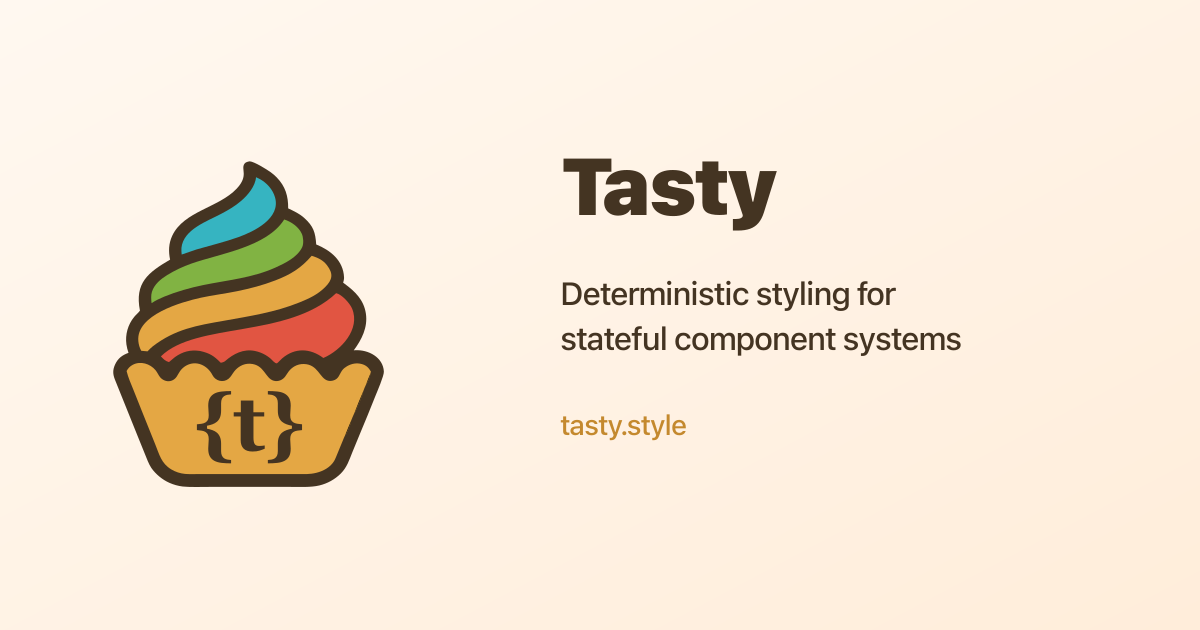
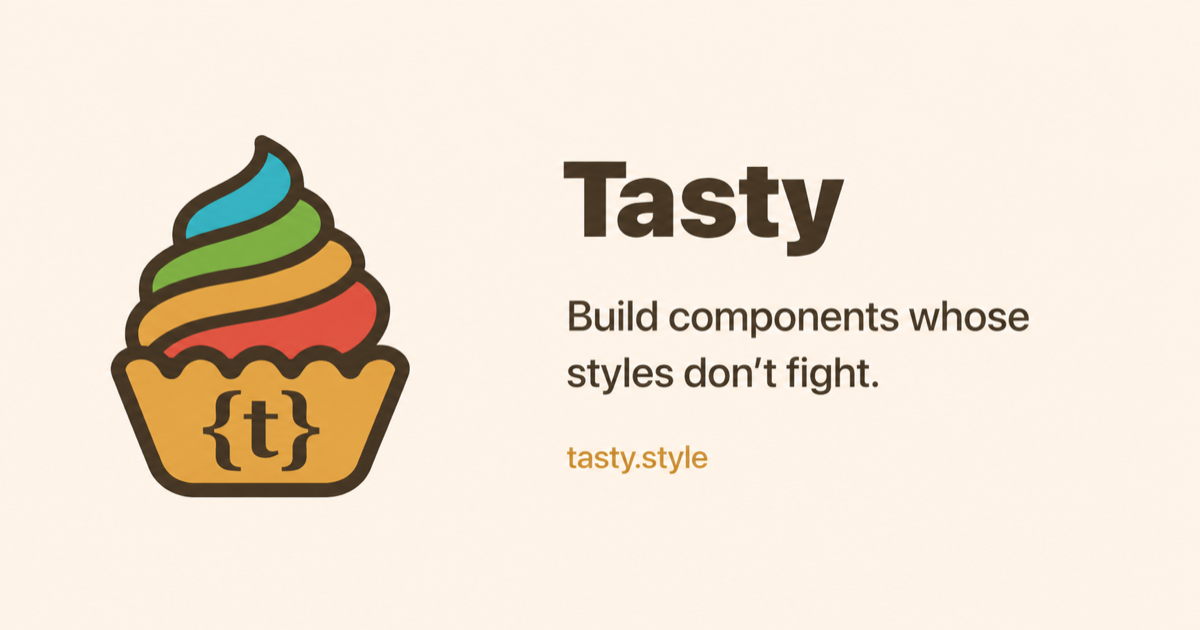
feat: sharpen homepage positioning

diff --git a/app/components/Features.tsx b/app/components/Features.tsx
@@ -22,44 +22,44 @@ interface FeatureItem {
 const FEATURES: FeatureItem[] = [
   {
     icon: <IconTargetArrow size={24} stroke={1.5} />,
-    title: 'Deterministic State Resolution',
+    title: 'States that don’t fight',
     description:
-      'State maps compile into mutually exclusive selectors, so one branch wins by construction instead of through source order or specificity.',
+      'Each property’s state map compiles into mutually exclusive selectors, so one branch wins by construction—not by source order or specificity.',
     tint: 'lime',
   },
   {
     icon: <IconSparkles size={24} stroke={1.5} />,
-    title: 'Predictable to Extend',
+    title: 'Safe to extend',
     description:
-      'Add variants, overrides, and new states without reopening selector logic by hand. The component model stays maintainable as systems grow.',
+      'Add variants, overrides, and new states without re-deriving selector logic. Components stay predictable as requirements grow.',
     tint: 'coral',
   },
   {
     icon: <IconDevices size={24} stroke={1.5} />,
-    title: 'Extensible Style Semantics',
+    title: 'Your design system’s language',
     description:
-      'Define custom props, tokens, units, aliases, and parser rules for your design system, then compile them down to standard CSS output.',
+      'Define typed style props, tokens, units, aliases, and parser rules for your system, then compile them to standard CSS.',
     tint: 'amber',
   },
   {
     icon: <IconPalette size={24} stroke={1.5} />,
-    title: 'Recommended Methodology',
+    title: 'Built for component systems',
     description:
-      'The docs define a clear component model for design systems: root + sub-elements, governed public APIs, typed style props where they help, and wrapper-based extension.',
+      'Model roots and sub-elements together, expose governed public APIs, and compose styles as data instead of scattered overrides.',
     tint: 'teal',
   },
   {
     icon: <IconComponents size={24} stroke={1.5} />,
-    title: 'Broad State Coverage',
+    title: 'One model for every state',
     description:
-      'Pseudo-classes, attributes, media queries, container queries, root states, parent states, `:has()`, and `@supports` all fit into the same state-map model.',
+      'Pseudo-classes, variants, root and parent states, media and container queries, `:has()`, and `@supports` all use state maps.',
     tint: 'violet',
   },
   {
     icon: <IconBolt size={24} stroke={1.5} />,
-    title: 'Flexible Rendering Paths',
+    title: 'Runtime, server, or build time',
     description:
-      'Use the same styling model in runtime React, add SSR when the app renders on the server, or choose build-time extraction when zero-runtime delivery is the goal.',
+      'Keep the same styling model in runtime React, React Server Components and SSR, or zero-runtime build-time extraction.',
     tint: 'rose',
   },
 ];
@@ -69,8 +69,8 @@ export default function Features() {
     <Section id="features">
       <Section.Title>Why Tasty</Section.Title>
       <Section.Subtitle>
-        Built for reusable, stateful components that need predictable styling as
-        they evolve
+        Built for long-lived component libraries where states, variants, themes,
+        and overrides keep growing
       </Section.Subtitle>
       <Section.Content>
         <Grid

diff --git a/app/components/Hero.tsx b/app/components/Hero.tsx
@@ -1,5 +1,5 @@
 import { tasty, OUTER_STYLES } from '@tenphi/tasty';
-import { IconArrowRight, IconBrandTelegram } from '@tabler/icons-react';
+import { IconArrowRight } from '@tabler/icons-react';
 import Space from '@/app/ui/Space';
 import Button from '@/app/ui/Button';
 import SpecialButton from '@/app/ui/SpecialButton';
@@ -97,7 +97,12 @@ const GlowOrb = tasty({
   styleProps: ['fill', ...OUTER_STYLES],
 });
 
-const HERO_TAGS = ['CSS-in-JS', 'Runtime', 'SSR', 'React', 'Design Systems'];
+const HERO_TAGS = [
+  'Type-safe',
+  'React Server Components',
+  'Runtime or build time',
+  'Production proven',
+];
 
 export default function Hero() {
   return (
@@ -111,16 +116,17 @@ export default function Hero() {
       />
       <HeroInner>
         <HeroLogo src="/tasty.svg" alt="Tasty logo" />
-        <Badge>tasty v{pkg.dependencies['@tenphi/tasty']}</Badge>
+        <Badge>
+          CSS-in-JS for React design systems · v
+          {pkg.dependencies['@tenphi/tasty']}
+        </Badge>
         <HeroTitle>
-          Deterministic styling for{' '}
-          <HeroAccent>stateful component systems</HeroAccent>
+          Build components whose <HeroAccent>styles don’t fight.</HeroAccent>
         </HeroTitle>
         <HeroSubtitle>
-          Tasty compiles declarative state maps into mutually exclusive
-          selectors, so styles resolve deterministically instead of depending on
-          source order or specificity. That makes complex styles easier to
-          define, extend, and maintain.
+          Describe hover, disabled, variants, themes, and responsive behavior as
+          state maps. Tasty makes one branch win by design—without specificity
+          fights or source-order surprises.
         </HeroSubtitle>
         <Space flow="row wrap" gap="1x" align="center" justify="center">
           {HERO_TAGS.map((tag) => (
@@ -134,20 +140,11 @@ export default function Hero() {
           width={{ '': 'auto', '@mobile': '100%' }}
           align={{ '@mobile': 'center' }}
         >
-          <SpecialButton as="a" href="/docs/getting-started">
-            Get Started <IconArrowRight size={20} />
+          <SpecialButton as="a" href="/playground">
+            Try State Maps <IconArrowRight size={20} />
           </SpecialButton>
           <Button as="a" variant="secondary" href="#how-it-works">
             See How It Works
-          </Button>
-          <Button
-            as="a"
-            variant="secondary"
-            href="https://t.me/tasty_css"
-            target="_blank"
-            rel="noreferrer"
-          >
-            Join Telegram <IconBrandTelegram size={20} />
           </Button>
         </Space>
       </HeroInner>

diff --git a/app/layout.tsx b/app/layout.tsx
@@ -7,10 +7,9 @@ import { onest, jetbrainsMono } from './fonts';
 
 const SITE_URL = 'https://tasty.style';
 const SITE_NAME = 'Tasty';
-const SITE_TITLE =
-  'Tasty — Deterministic styling for stateful component systems';
+const SITE_TITLE = 'Tasty — Predictable CSS-in-JS for React design systems';
 const SITE_DESCRIPTION =
-  'Tasty compiles declarative state maps into mutually exclusive selectors, so styles resolve deterministically instead of depending on source order or specificity. That makes complex styles easier to define, extend, and maintain.';
+  'Build React components whose styles don’t fight. Tasty turns declarative state maps into predictable CSS—without specificity fights or source-order surprises.';
 
 export const metadata: Metadata = {
   metadataBase: new URL(SITE_URL),

diff --git a/app/components/CallToAction.tsx b/app/components/CallToAction.tsx
@@ -69,11 +69,10 @@ export default function CallToAction() {
         inset="auto auto -200px 50%"
         translate="-50% 0"
       />
-      <CTATitle>Start with runtime, add structure as needed</CTATitle>
+      <CTATitle>Make your next component predictable</CTATitle>
       <CTASubtitle>
-        Install the runtime, build a first component, then layer in shared
-        configuration, methodology, SSR, or zero-runtime only where your system
-        needs them.
+        Start with one component. Add states, variants, tokens, and shared
+        conventions as your design system grows.
       </CTASubtitle>
       <ServerCodeBlock
         width="max-content"

diff --git a/app/components/HowItWorks.tsx b/app/components/HowItWorks.tsx
@@ -189,8 +189,7 @@ export default function HowItWorks() {
       <Section id="how-it-works">
         <Section.Title>How It Actually Works</Section.Title>
         <Section.Subtitle>
-          Every state map compiles into mutually exclusive selectors per
-          property
+          Declare the priority. Tasty makes one branch win by design.
         </Section.Subtitle>
         <Section.Content>
           <Tabs tabs={tabs} defaultTab="interactive-states" />
